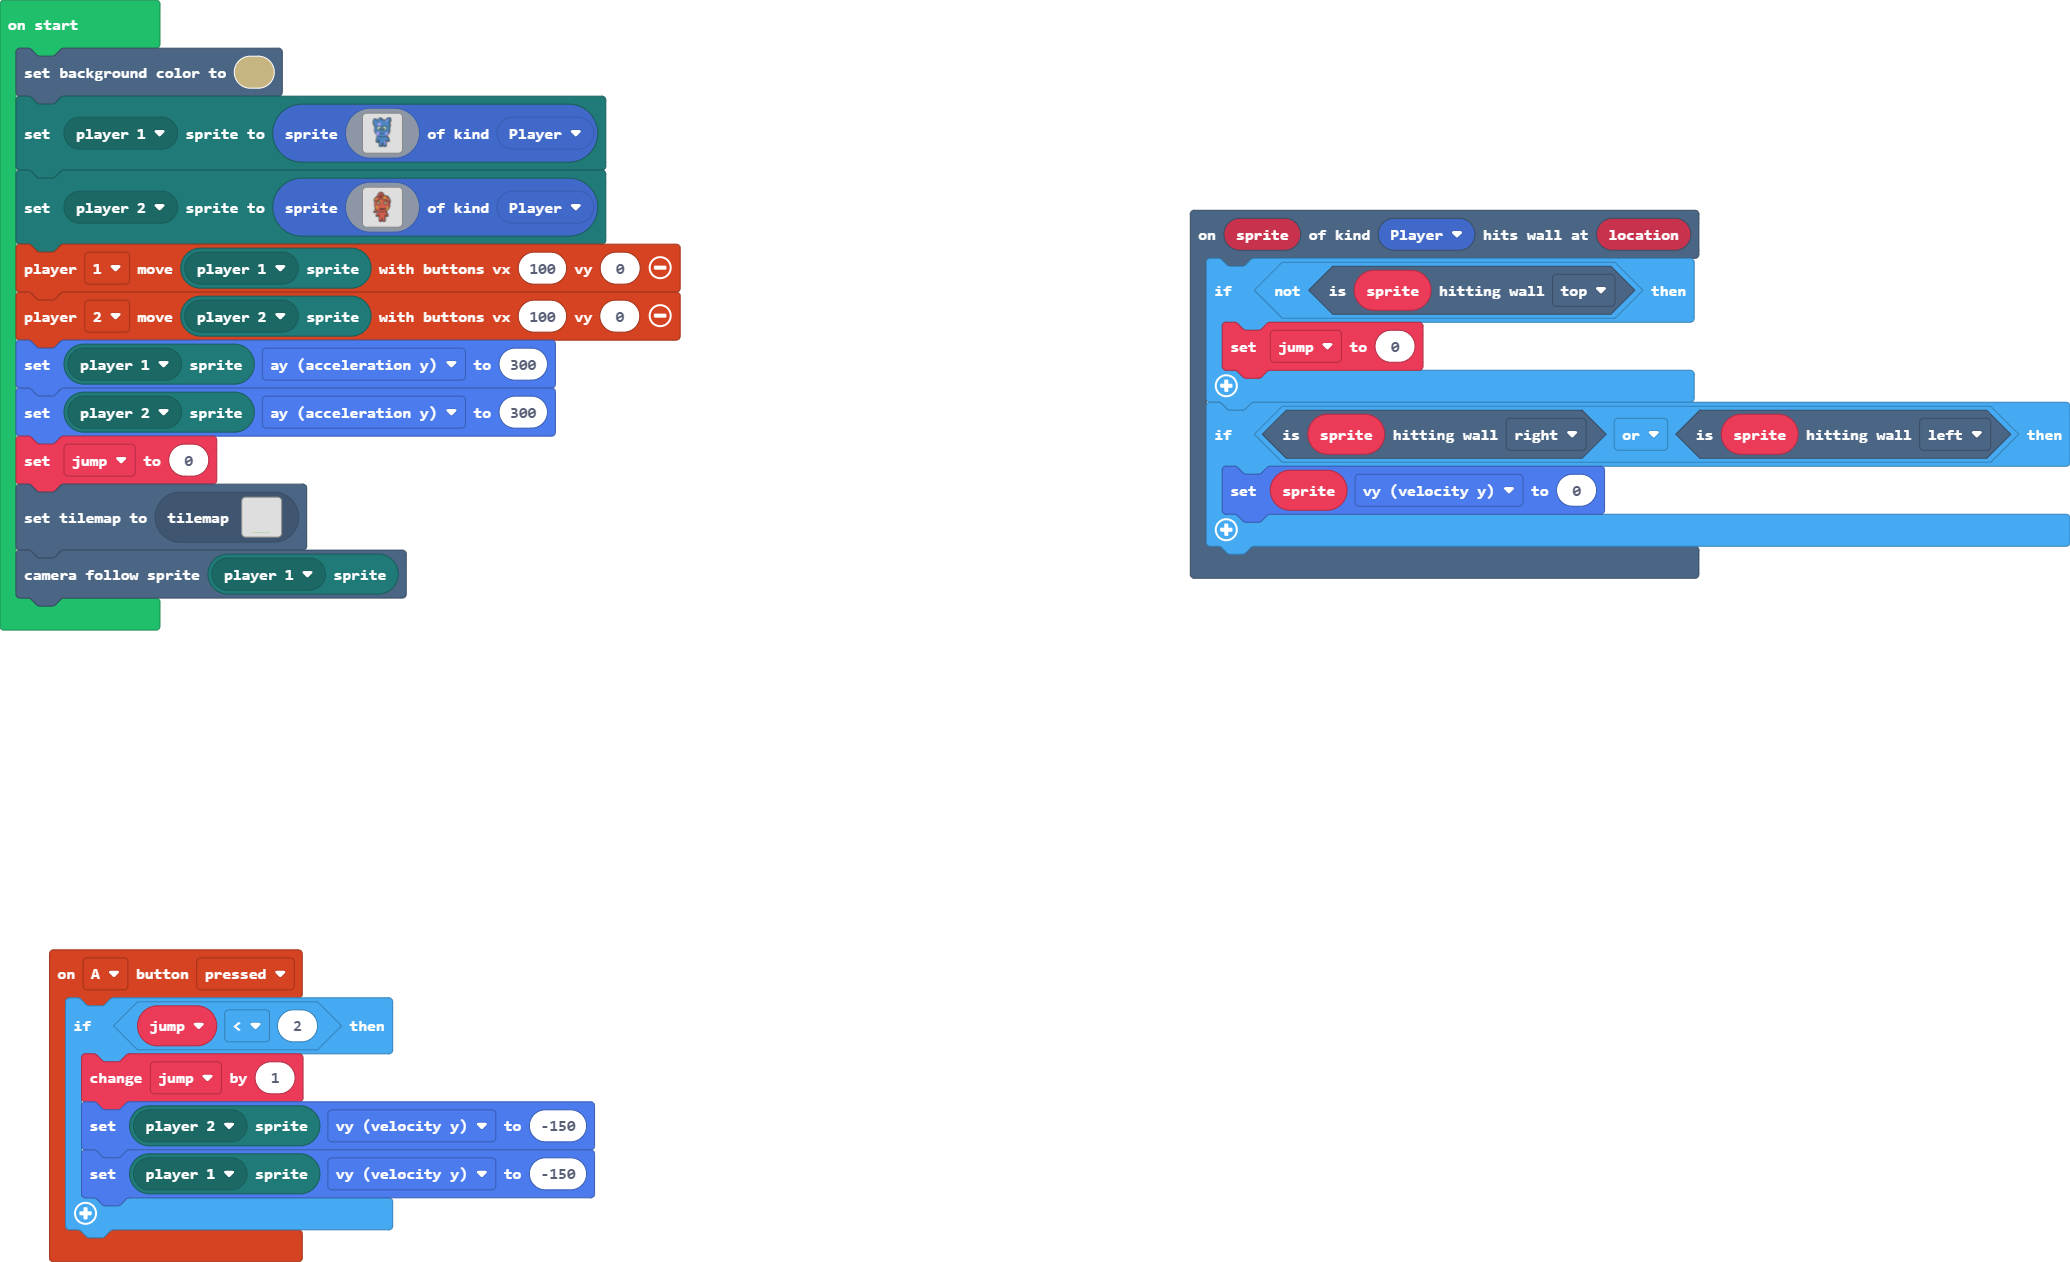
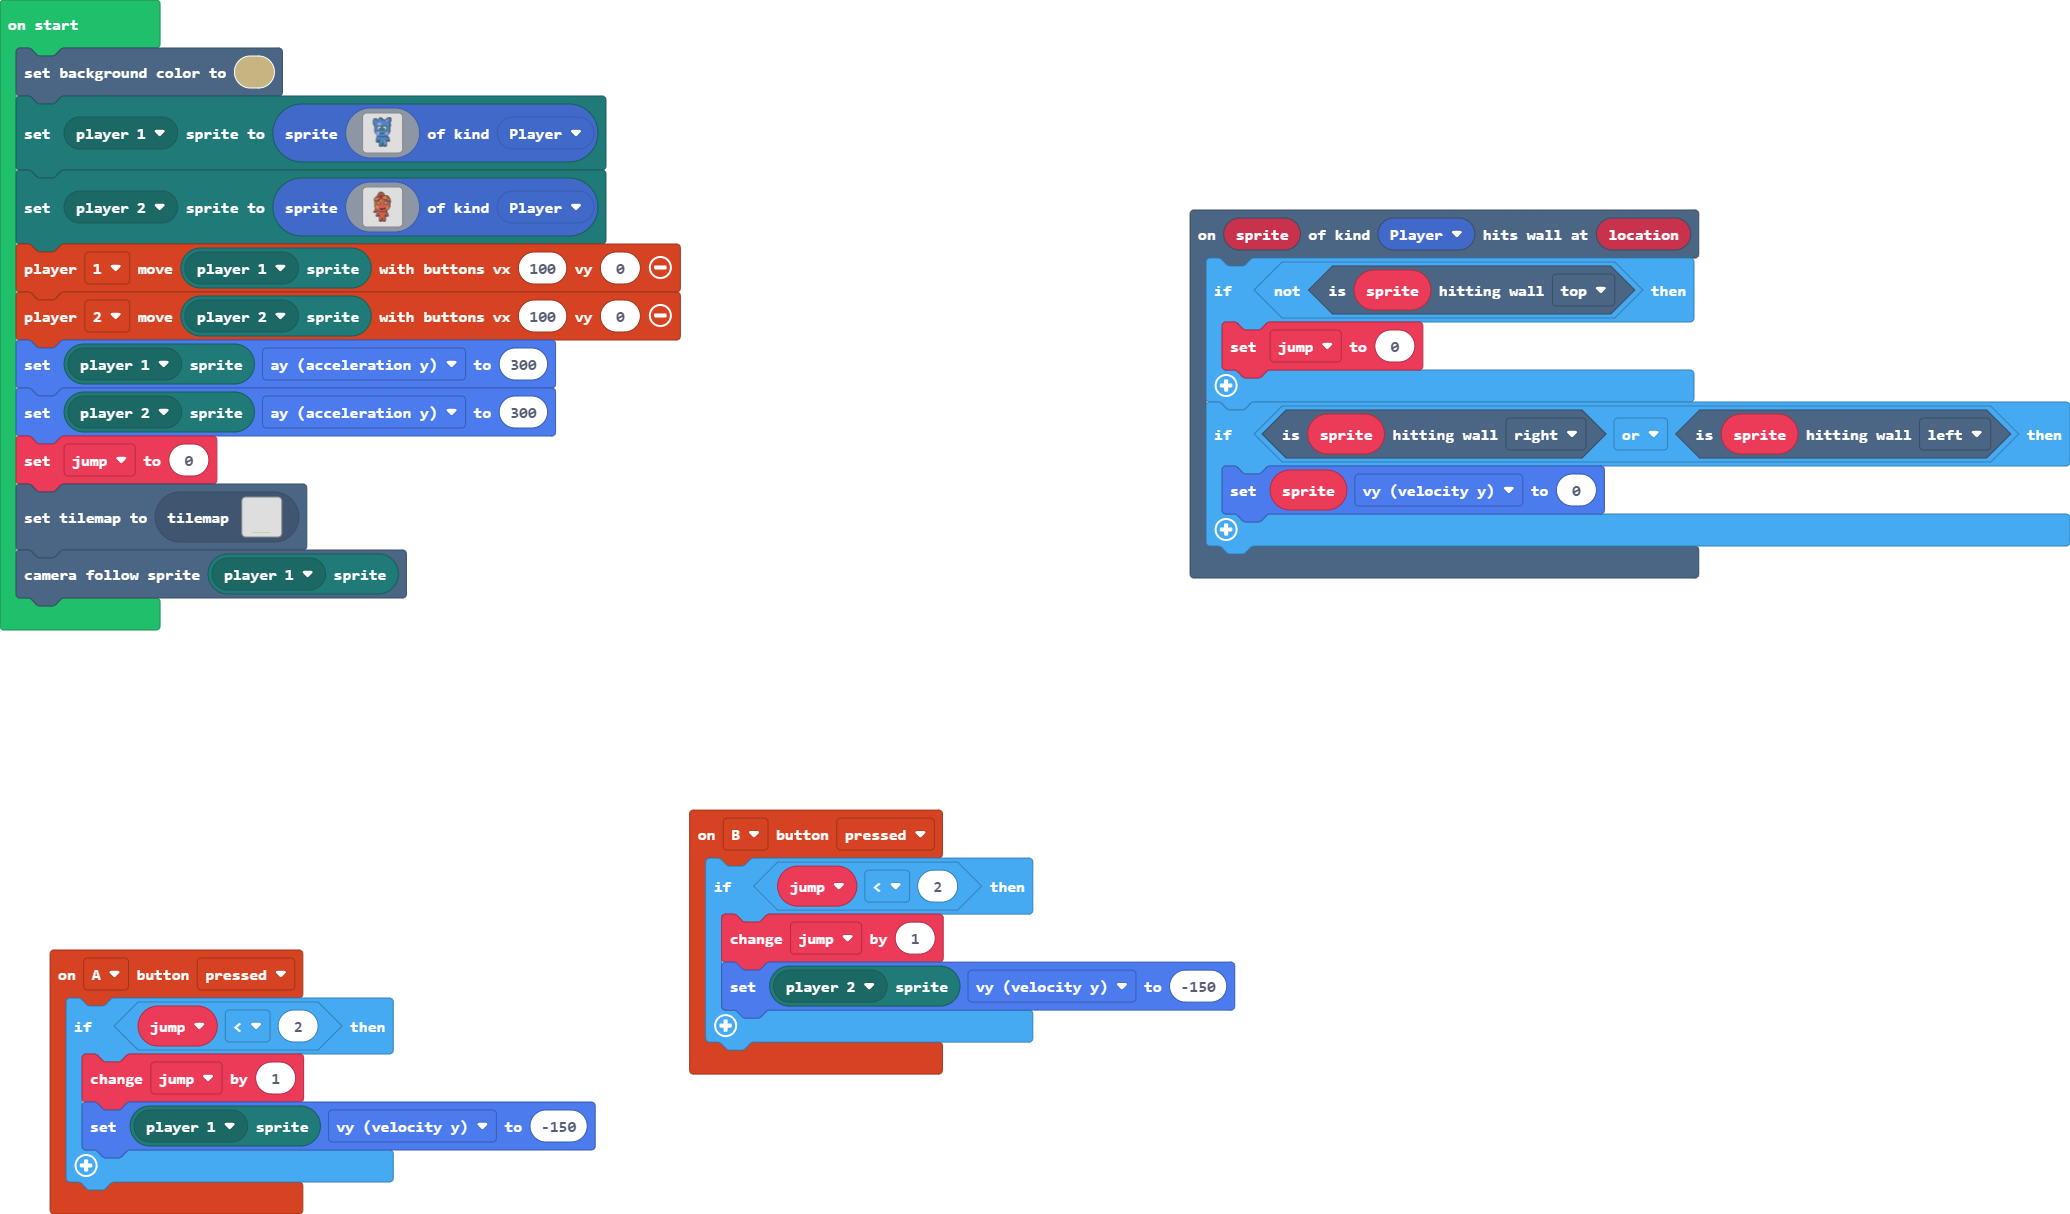
Update main.blocks, main.ts

Changed region(s): [[0.0, 0.0305, 0.3401, 0.5181], [0.5565, 0.1524, 1.0, 0.4876], [0.0, 0.64, 0.6184, 0.9753]]

diff --git a/main.ts b/main.ts
@@ -6,10 +6,15 @@ scene.onHitWall(SpriteKind.Player, function (sprite, location) {
         sprite.vy = 0
     }
 })
-controller.A.onEvent(ControllerButtonEvent.Pressed, function () {
+controller.B.onEvent(ControllerButtonEvent.Pressed, function () {
     if (jump < 2) {
         jump += 1
         mp.getPlayerSprite(mp.playerSelector(mp.PlayerNumber.Two)).vy = -150
+    }
+})
+controller.A.onEvent(ControllerButtonEvent.Pressed, function () {
+    if (jump < 2) {
+        jump += 1
         mp.getPlayerSprite(mp.playerSelector(mp.PlayerNumber.One)).vy = -150
     }
 })
